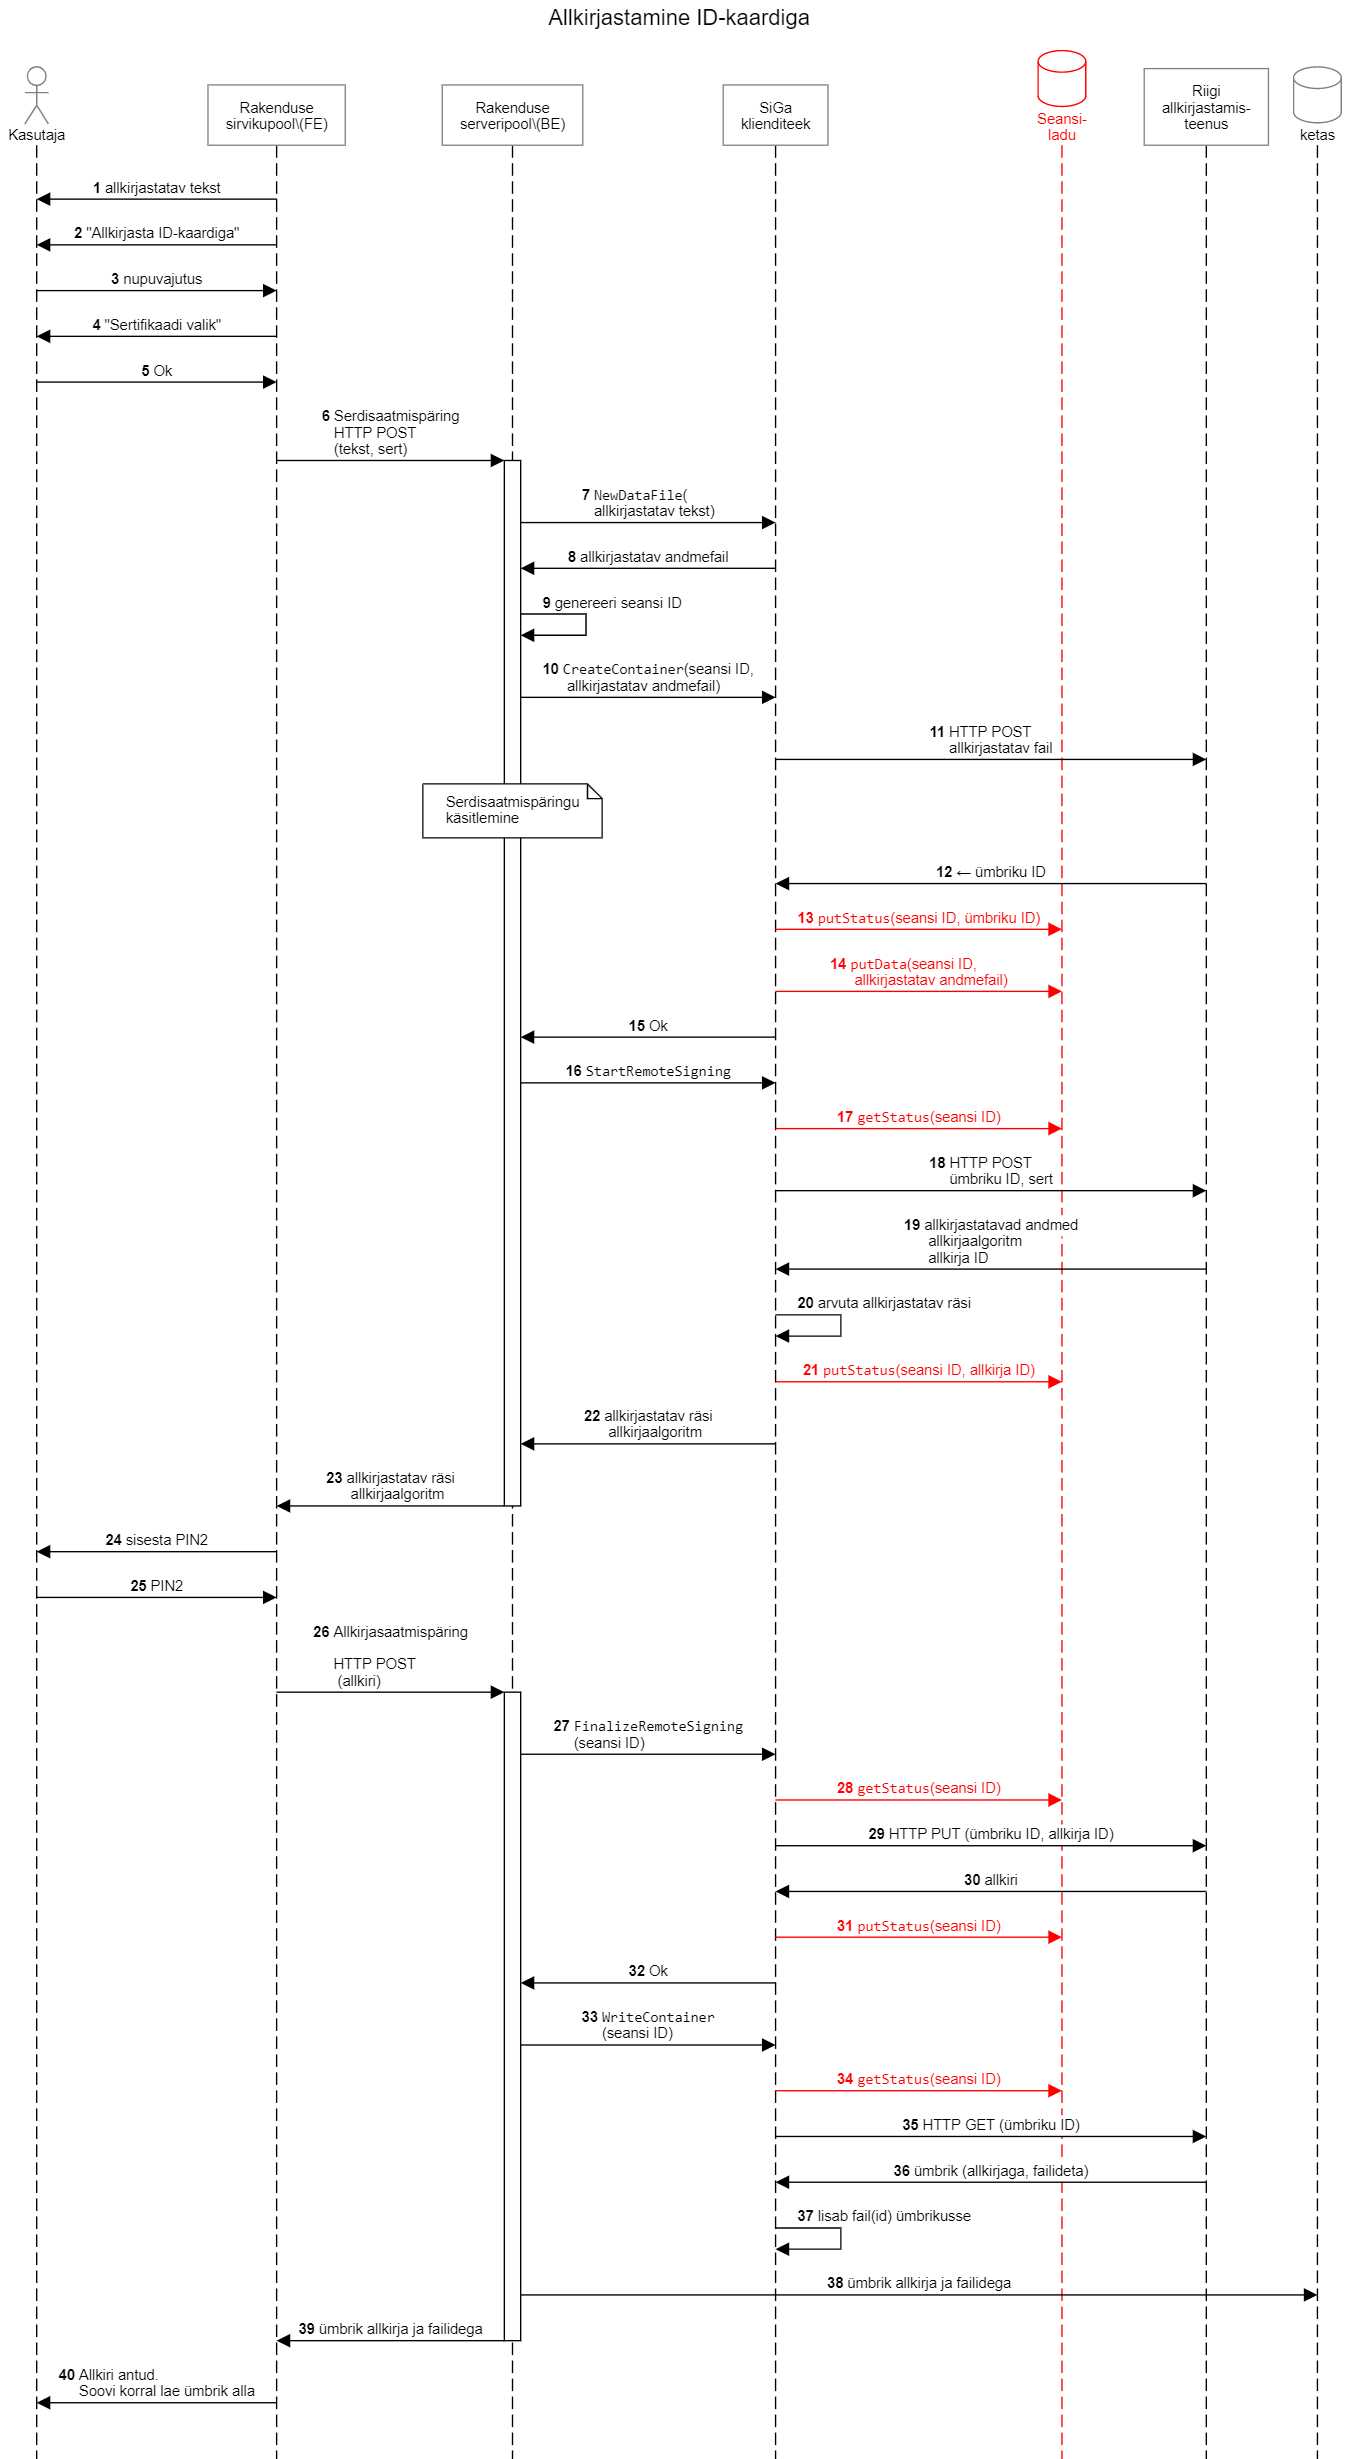
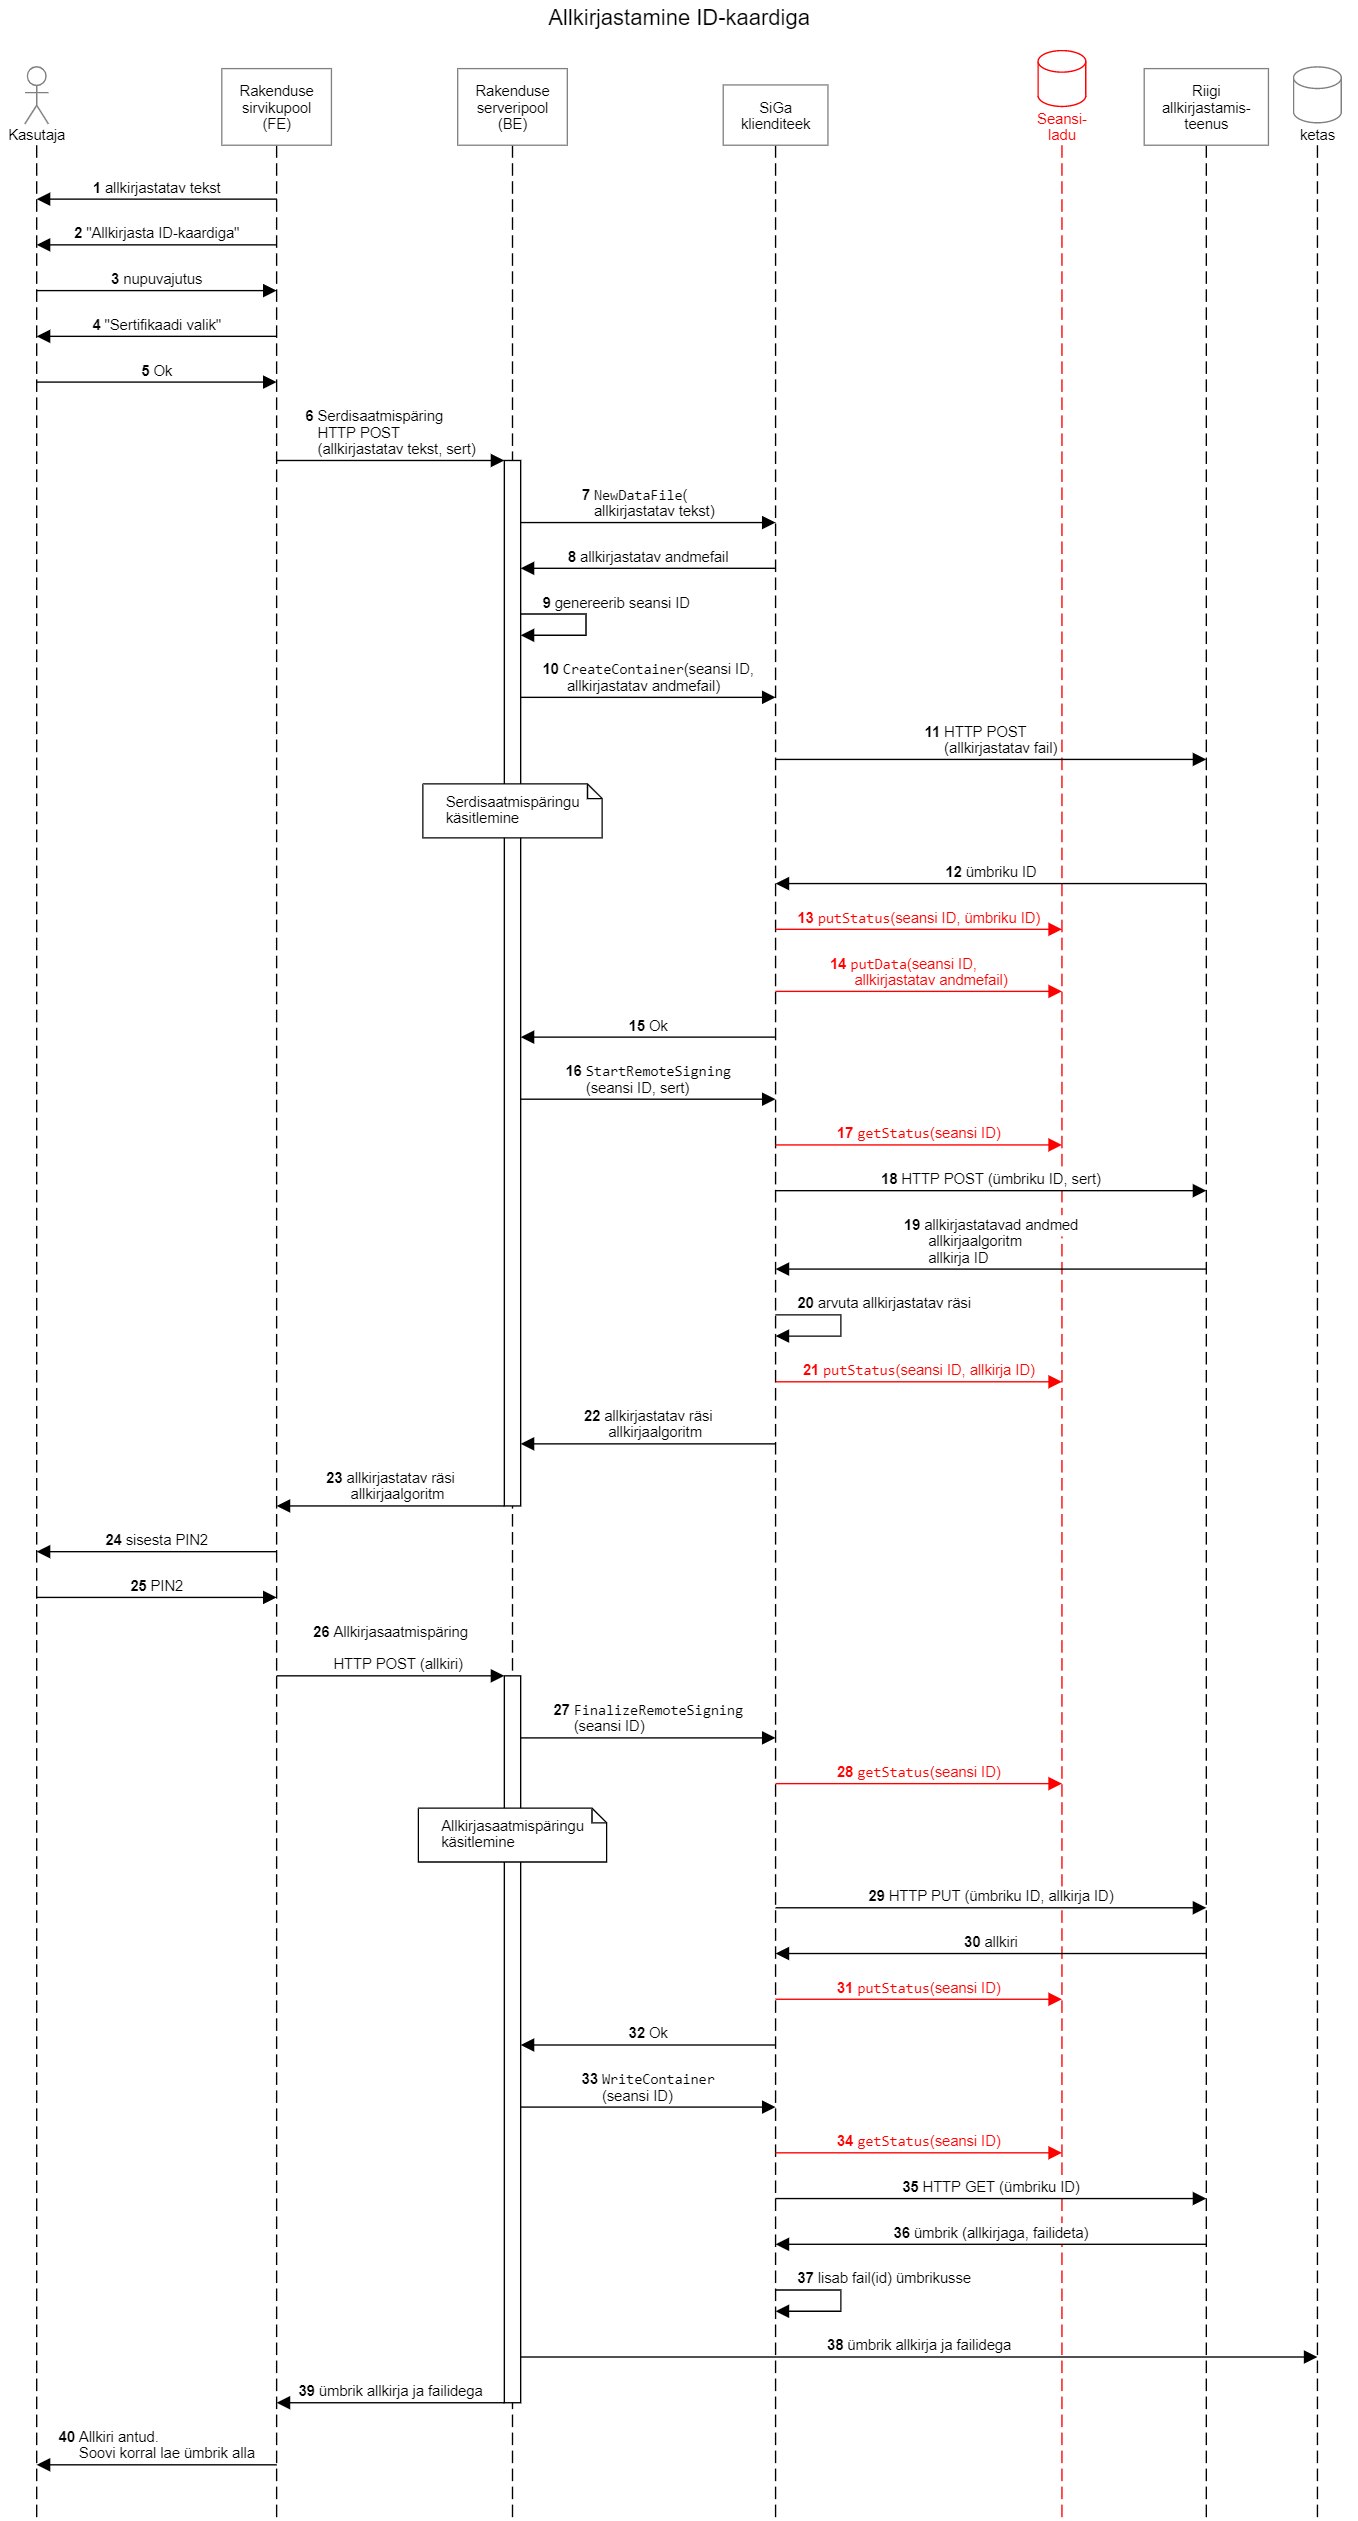
+

diff --git a/README.md b/README.md
@@ -134,6 +134,8 @@ kasutada ka Ignite hajusmälu (ei ole käesolevas repos avaldatud).
 
 ID-kaardiga allkirjastamise voog on järgmine:
 
+![Skeem](docs/Skeem.png)
+
 1  Rakenduse kasutaja (K) sisestab kuvavormil allkirjastatava teksti.
 
 2  Kasutaja (K) vajutab nupule "Allkirjasta".
@@ -163,7 +165,6 @@ ID-kaardiga allkirjastamise voog on järgmine:
 9  B saadab POST päringuga serdi SiGa-sse. Päring:
 
 `POST /hascodecontainers/{containerid}/remotesigning`
-
 
 7  saadab päringu P1 vastuse sirvikupoolele.
 
@@ -195,9 +196,7 @@ Serveripool lisab räsikonteinerisse andmefaili. Nii moodustub täielik allkirja
 
 ## Allkirjastamine m-ID-ga
 
-Näiterakenduse käivitamisel tehakse kõigepealt m-ID-ga näiteallkirjastamine. Voog on järgmine:
-
-![Skeem](docs/Skeem.png)
+m-ID-ga näiteallkirjastamise voog on järgmine:
 
 1  moodustab Riigi allkirjastamisteenuse (SiGa) poole pöördumise HTTPS kliendi (`CreateSIGAClient`)
 
